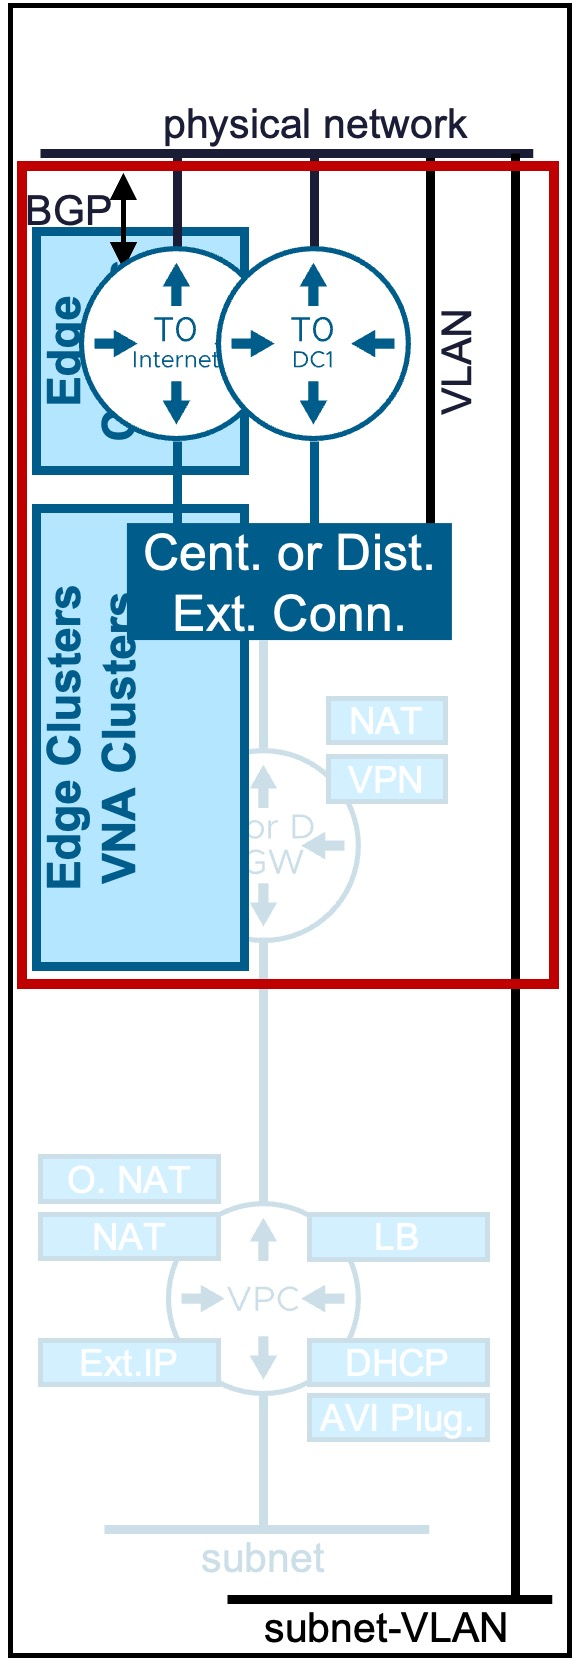
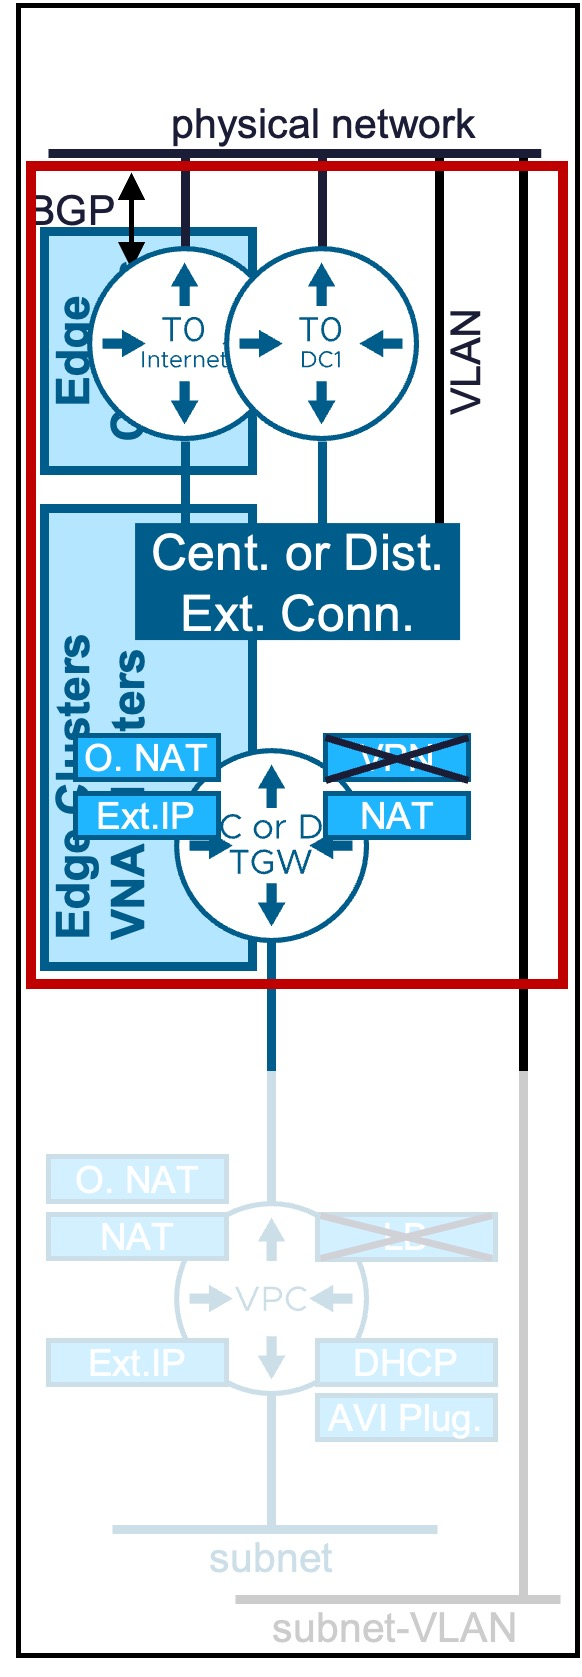
update

diff --git a/site/vcenter/3b-transit_gateway/index.html b/site/vcenter/3b-transit_gateway/index.html
@@ -2186,17 +2186,17 @@
 <tbody>
 <tr>
 <td style="text-align: left;"><a href="#cent-tgw"><strong>Centralized TGW</strong></a></td>
-<td style="text-align: left;">Supports extra network stateful services (VPN).</td>
+<td style="text-align: left;">Supports L2 and L3 Fabric. Offers Stateful Network Services (Outbound-NAT and NAT).</td>
 <td style="text-align: left;">Egress traffic is hairpinned through a centralized Tier-0/VRF gateway hosted on an Edge Cluster.</td>
 </tr>
 <tr>
 <td style="text-align: left;"><a href="#dist-tgw"><strong>Distributed TGW</strong></a></td>
-<td style="text-align: left;">Optimized for high-throughput distributed routing (supports Outbound-NAT and LB via VNA Nodes).</td>
-<td style="text-align: left;">Routing occurs locally at the ESXi host level (distributed dataplane). NAT and LB traffic is redirected through a VNA Gateway in a VNA Cluster.</td>
+<td style="text-align: left;">Supports only L2 Fabric. Offers Stateful Network Services (Outbound-NAT and NAT) with VNA Nodes.</td>
+<td style="text-align: left;">Routing occurs locally at the ESXi host level (distributed dataplane). Stateful Network Services traffic is redirected through a VNA Gateway in a VNA Cluster.</td>
 </tr>
 </tbody>
 </table>
-<p><a class="glightbox" data-type="image" data-width="auto" data-height="auto" href="../images/3b-0-Transit_Gateway_Types.jpg" data-desc-position="bottom"><img alt="TGW Types" class="center" src="../images/3b-0-Transit_Gateway_Types.jpg" style="width:60%"></a></p>
+<p><a class="glightbox" data-type="image" data-width="auto" data-height="auto" href="../images/3b-0-Transit_Gateway_Types.jpg" data-desc-position="bottom"><img alt="TGW Types" class="center" src="../images/3b-0-Transit_Gateway_Types.jpg" style="width:70%"></a></p>
 <hr>
 <h2 id="cent-tgw">Centralized Transit Gateway</h2>
 <h3 id="configuration">Configuration</h3>
@@ -2274,7 +2274,6 @@
 <li>
 <p><strong>External Connection</strong>:<br>
   You can create a new or use an existing Distributed External Connection.<br>
-  Limited configuration settings are available if creating a new Distributed External Connection from here (only Tier-0 information).<br>
   For more information on External Connection, refer to the <a href="../3a-external_connection/">External Connection</a> page.</p>
 </li>
 <li>

diff --git a/site/vcfa/1a-transit_gateway/index.html b/site/vcfa/1a-transit_gateway/index.html
@@ -2186,17 +2186,17 @@
 <tbody>
 <tr>
 <td style="text-align: left;"><a href="#cent-tgw"><strong>Centralized TGW</strong></a></td>
-<td style="text-align: left;">Supports extra network stateful services (VPN).</td>
+<td style="text-align: left;">Supports L2 and L3 Fabric. Offers all Stateful Network Services (Outbound-NAT, NAT, LB, and VPN).</td>
 <td style="text-align: left;">Egress traffic is hairpinned through a centralized Tier-0/VRF gateway hosted on an Edge Cluster.</td>
 </tr>
 <tr>
 <td style="text-align: left;"><a href="#dist-tgw"><strong>Distributed TGW</strong></a></td>
-<td style="text-align: left;">Optimized for high-throughput distributed routing (supports Outbound-NAT and LB via VNA Nodes).</td>
-<td style="text-align: left;">Routing occurs locally at the ESXi host level (distributed dataplane). NAT and LB traffic is redirected through a VNA Gateway in a VNA Cluster.</td>
+<td style="text-align: left;">Supports only L2 Fabric. Offers Stateful Network Services (Outbound-NAT, NAT, and LB) with VNA Nodes.</td>
+<td style="text-align: left;">Routing occurs locally at the ESXi host level (distributed dataplane). Stateful Network Services traffic is redirected through a VNA Gateway in a VNA Cluster.</td>
 </tr>
 </tbody>
 </table>
-<p><a class="glightbox" data-type="image" data-width="auto" data-height="auto" href="images/3b-0-Transit_Gateway_Types.jpg" data-desc-position="bottom"><img alt="TGW Types" class="center" src="images/3b-0-Transit_Gateway_Types.jpg" style="width:60%"></a></p>
+<p><a class="glightbox" data-type="image" data-width="auto" data-height="auto" href="../images/1a-0-Transit_Gateway_Types.jpg" data-desc-position="bottom"><img alt="TGW Types" class="center" src="../images/1a-0-Transit_Gateway_Types.jpg" style="width:70%"></a></p>
 <hr>
 <h2 id="cent-tgw">Centralized Transit Gateway</h2>
 <h3 id="configuration">Configuration</h3>
@@ -2294,7 +2294,7 @@
 <li>
 <p><strong>Virtual Network Appliance Cluster</strong>:<br>
   Select the VNA Cluster to host the VNA Gateway.<br>
-  For more information on VNA, refer to the <a href="2b-vna.md">VNA</a> page.</p>
+  For more information on VNA, refer to the <a href="../3b-vna/">VNA</a> page.</p>
 </li>
 <li>
 <p><strong>Default Outbound NAT</strong><br>

diff --git a/docs/vcenter/3b-transit_gateway.md b/docs/vcenter/3b-transit_gateway.md
@@ -24,10 +24,10 @@ Transit Gateways (Centralized or Distributed) provide the routing between VPC Ga
 
 | Type | Use Case | Routing Logic |
 | :--- | :--- | :--- |
-| [**Centralized TGW**](#cent-tgw) | Supports extra network stateful services (VPN). | Egress traffic is hairpinned through a centralized Tier-0/VRF gateway hosted on an Edge Cluster. |
-| [**Distributed TGW**](#dist-tgw)| Optimized for high-throughput distributed routing (supports Outbound-NAT and LB via VNA Nodes). | Routing occurs locally at the ESXi host level (distributed dataplane). NAT and LB traffic is redirected through a VNA Gateway in a VNA Cluster. |
+| [**Centralized TGW**](#cent-tgw) | Supports L2 and L3 Fabric. Offers Stateful Network Services (Outbound-NAT and NAT). | Egress traffic is hairpinned through a centralized Tier-0/VRF gateway hosted on an Edge Cluster. |
+| [**Distributed TGW**](#dist-tgw)| Supports only L2 Fabric. Offers Stateful Network Services (Outbound-NAT and NAT) with VNA Nodes. | Routing occurs locally at the ESXi host level (distributed dataplane). Stateful Network Services traffic is redirected through a VNA Gateway in a VNA Cluster. |
 
-![TGW Types](images/3b-0-Transit_Gateway_Types.jpg){: .center style="width:60%" }
+![TGW Types](images/3b-0-Transit_Gateway_Types.jpg){: .center style="width:70%" }
 
 ---
 
@@ -105,7 +105,6 @@ The status reflects the successful application of the configuration.
 
 * **External Connection**:  
   You can create a new or use an existing Distributed External Connection.  
-  Limited configuration settings are available if creating a new Distributed External Connection from here (only Tier-0 information).  
   For more information on External Connection, refer to the [External Connection](3a-external_connection.md) page.
 
 * **VPC Network Configuration**  

diff --git a/docs/vcfa/1a-transit_gateway.md b/docs/vcfa/1a-transit_gateway.md
@@ -24,10 +24,10 @@ Transit Gateways (Centralized or Distributed) provide the routing between VPC Ga
 
 | Type | Use Case | Routing Logic |
 | :--- | :--- | :--- |
-| [**Centralized TGW**](#cent-tgw) | Supports extra network stateful services (VPN). | Egress traffic is hairpinned through a centralized Tier-0/VRF gateway hosted on an Edge Cluster. |
-| [**Distributed TGW**](#dist-tgw)| Optimized for high-throughput distributed routing (supports Outbound-NAT and LB via VNA Nodes). | Routing occurs locally at the ESXi host level (distributed dataplane). NAT and LB traffic is redirected through a VNA Gateway in a VNA Cluster. |
+| [**Centralized TGW**](#cent-tgw) | Supports L2 and L3 Fabric. Offers all Stateful Network Services (Outbound-NAT, NAT, LB, and VPN). | Egress traffic is hairpinned through a centralized Tier-0/VRF gateway hosted on an Edge Cluster. |
+| [**Distributed TGW**](#dist-tgw)| Supports only L2 Fabric. Offers Stateful Network Services (Outbound-NAT, NAT, and LB) with VNA Nodes. | Routing occurs locally at the ESXi host level (distributed dataplane). Stateful Network Services traffic is redirected through a VNA Gateway in a VNA Cluster. |
 
-![TGW Types](images/3b-0-Transit_Gateway_Types.jpg){: .center style="width:60%" }
+![TGW Types](images/1a-0-Transit_Gateway_Types.jpg){: .center style="width:70%" }
 
 ---
 
@@ -120,7 +120,7 @@ Option to offer Network Services NAT, LB, AVI Plugin.
 
 * **Virtual Network Appliance Cluster**:  
   Select the VNA Cluster to host the VNA Gateway.  
-  For more information on VNA, refer to the [VNA](2b-vna.md) page.
+  For more information on VNA, refer to the [VNA](3b-vna.md) page.
 
 * **Default Outbound NAT**  
   Enable the automatic Source NAT (N:1 SNAT) for future VPC Private-TGW and Private-VPC subnets.
